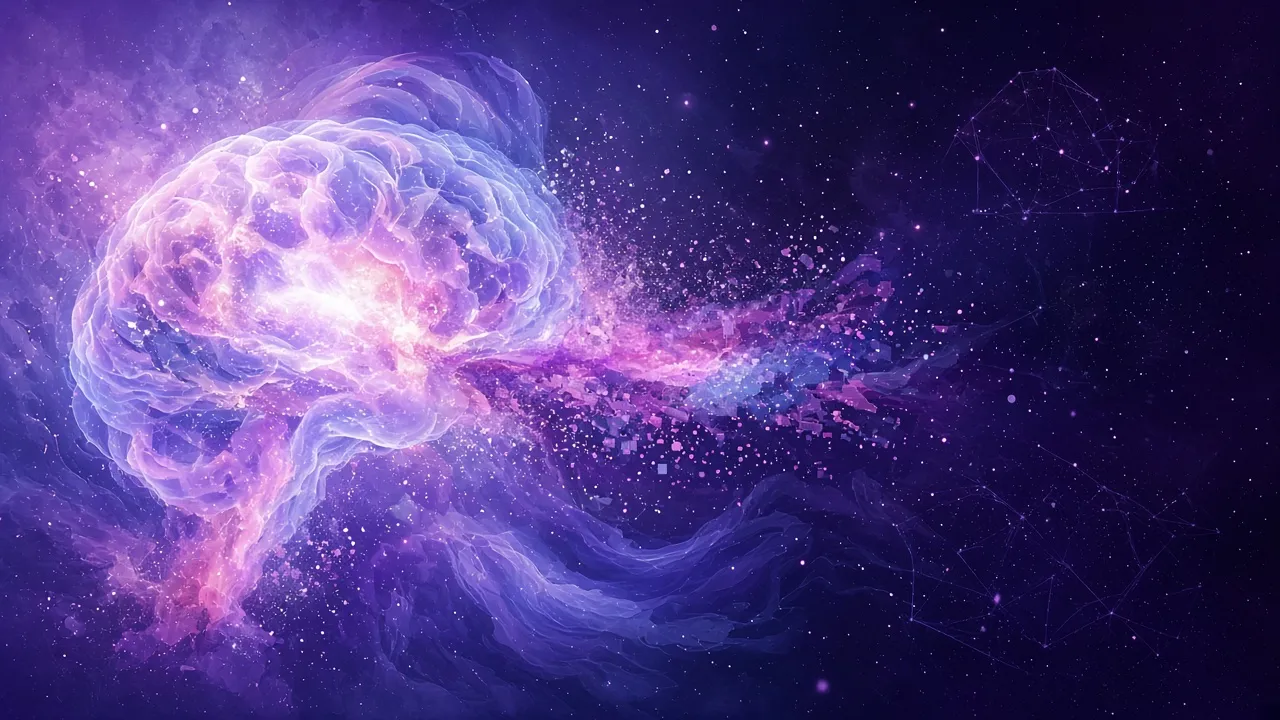
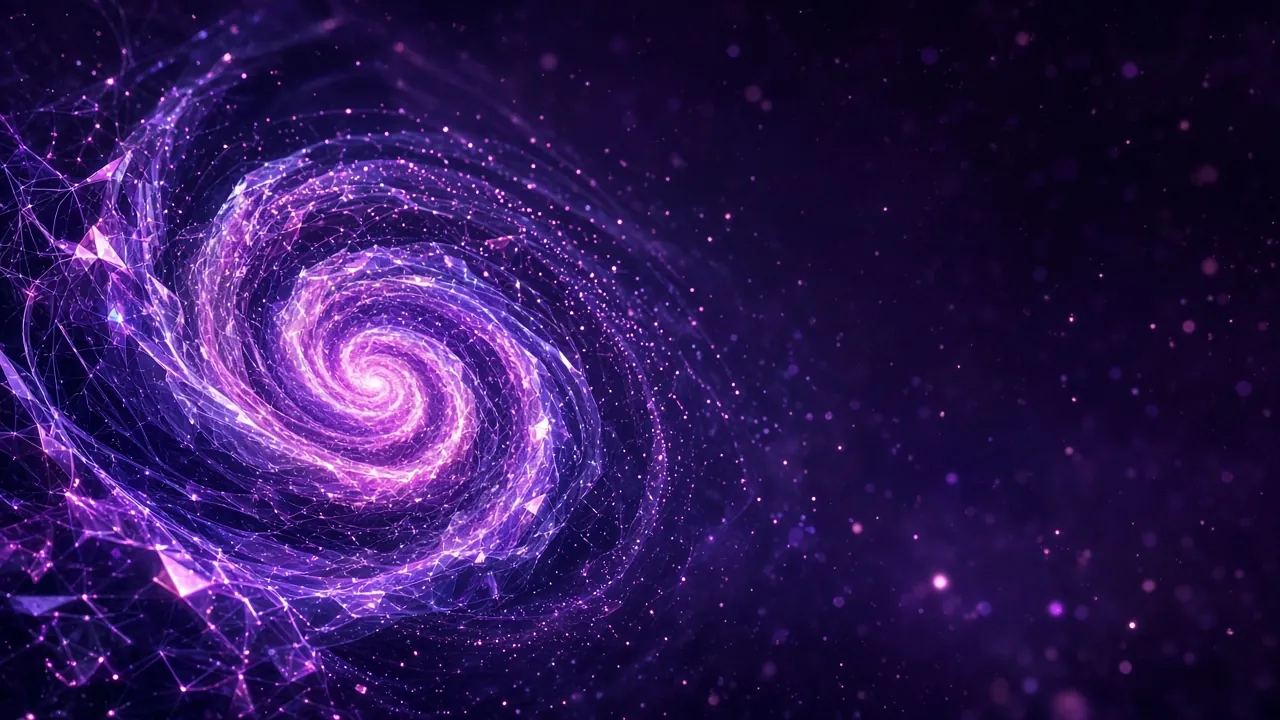
8 AM refresh Oct 17: new generator background (crystalline data-lattice spiral galaxy), gen-art v=20261017, archive Oct 16 art; Editor's Pick Almanak

diff --git a/generate.css b/generate.css
@@ -17,7 +17,7 @@ html[data-theme=dark] .ig-out img{background:var(--soft)}
 html[data-theme=dark] .ig-cta{background:var(--accent-soft)}
 
 /* Full-page generator hero (generate.html only; scoped to .gen-hero) */
-:root{--gen-art:url(assets/gen-art.webp?v=20261016b)}
+:root{--gen-art:url(assets/gen-art.webp?v=20261017)}
 .gen-hero{position:relative;margin:8px 0 24px;padding:14px;border-radius:20px;background:#1c1f5a}
 .gen-inner{position:relative;padding:42px 24px;border-radius:14px;overflow:hidden;isolation:isolate;background:#EFEFFE var(--gen-art) center/cover no-repeat}
 .gen-inner::before{content:"";position:absolute;inset:0;z-index:-1;background:rgba(239,239,254,.3)}
